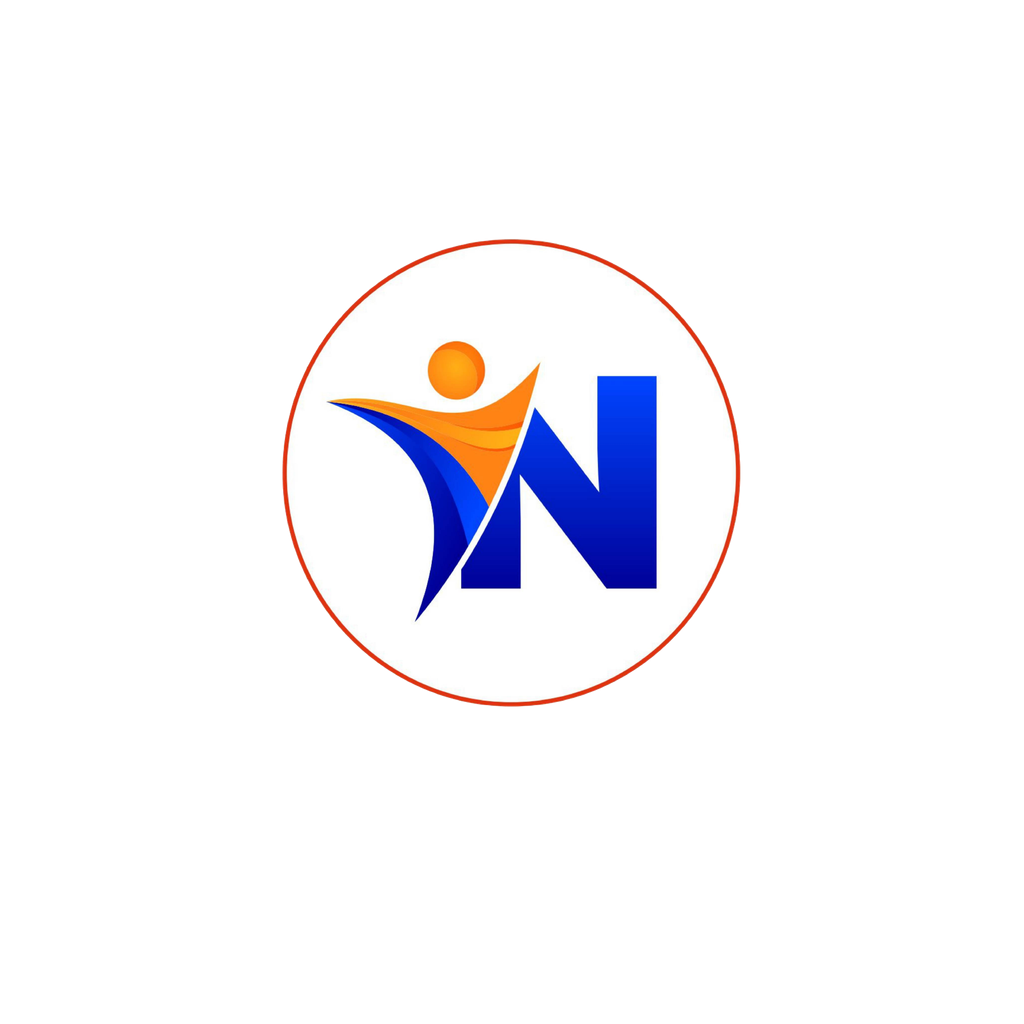
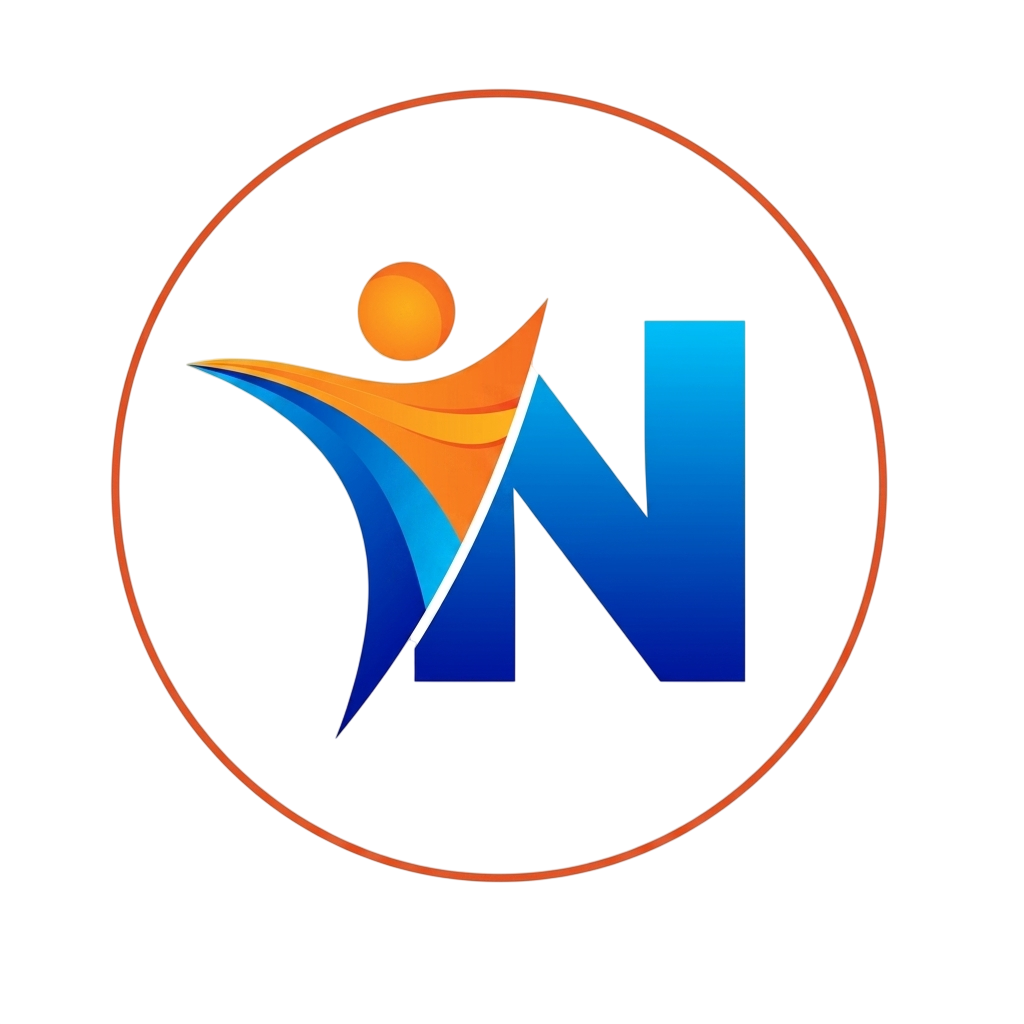
updated

diff --git a/nilanshu-billing-app/index.html b/nilanshu-billing-app/index.html
@@ -4,10 +4,24 @@
     <meta charset="UTF-8" />
     <link rel="icon" type="image/svg+xml" href="/favicon.svg" />
     <meta name="viewport" content="width=device-width, initial-scale=1.0" />
-    <title>nilanshu-billing-app</title>
+    <title>NP-Billing</title>
+    <style>
+      body { margin: 0; background-color: #f8fafc; font-family: system-ui, -apple-system, sans-serif; }
+      @media (prefers-color-scheme: dark) { body { background-color: #020817; color: #fff; } }
+      #initial-loader { display: flex; flex-direction: column; align-items: center; justify-content: center; height: 100vh; width: 100vw; position: absolute; top: 0; left: 0; }
+      .spinner { width: 40px; height: 40px; border: 4px solid rgba(0, 0, 0, 0.1); border-left-color: #3b82f6; border-radius: 50%; animation: spin 1s linear infinite; }
+      @media (prefers-color-scheme: dark) { .spinner { border: 4px solid rgba(255, 255, 255, 0.1); border-left-color: #3b82f6; } }
+      @keyframes spin { 0% { transform: rotate(0deg); } 100% { transform: rotate(360deg); } }
+      .loading-text { margin-top: 1rem; font-size: 14px; color: #64748b; font-weight: 500; }
+    </style>
   </head>
   <body>
-    <div id="root"></div>
+    <div id="root">
+      <div id="initial-loader">
+        <div class="spinner"></div>
+        <div class="loading-text">Loading NP-Billing...</div>
+      </div>
+    </div>
     <script type="module" src="/src/main.tsx"></script>
   </body>
 </html>

diff --git a/nilanshu-billing-app/src/pages/Dashboard.tsx b/nilanshu-billing-app/src/pages/Dashboard.tsx
@@ -10,7 +10,12 @@ export default function Dashboard() {
   const totalOutstanding = parties.reduce((sum, p) => sum + p.outstandingBalance, 0);
   const todayBills = bills.filter(b => {
     const today = new Date();
-    const bd = new Date(b.date);
+    let dateStr = String(b.date);
+    // Convert PostgreSQL "2026-08-04 20:20:00" to ISO UTC "2026-08-04T20:20:00Z"
+    if (dateStr.includes(' ') && !dateStr.includes('T')) {
+      dateStr = dateStr.replace(' ', 'T') + 'Z';
+    }
+    const bd = new Date(dateStr);
     return bd.toDateString() === today.toDateString();
   });
   const todaySales = todayBills.reduce((sum, b) => sum + Number(b.total || 0), 0);
@@ -28,7 +33,11 @@ export default function Dashboard() {
     const y = d.getFullYear();
     
     const monthlyBills = bills.filter(b => {
-      const bd = new Date(b.date);
+      let dateStr = String(b.date);
+      if (dateStr.includes(' ') && !dateStr.includes('T')) {
+        dateStr = dateStr.replace(' ', 'T') + 'Z';
+      }
+      const bd = new Date(dateStr);
       return bd.getMonth() === m && bd.getFullYear() === y;
     });
     

diff --git a/nilanshu-billing-app/src/components/ui/Layout.tsx b/nilanshu-billing-app/src/components/ui/Layout.tsx
@@ -24,8 +24,9 @@ export const Layout = () => {
     <div className="flex h-screen bg-background text-foreground overflow-hidden">
       {/* Sidebar */}
       <aside className="w-64 bg-card border-r border-border flex flex-col no-print">
-        <div className="p-6">
-          <h1 className="text-xl font-bold tracking-tight text-primary">Nilanshu Billing</h1>
+        <div className="p-6 flex items-center gap-3">
+          <img src="/logo.png" alt="Logo" className="w-8 h-8 object-contain rounded-full bg-white p-0.5" />
+          <h1 className="text-xl font-bold tracking-tight text-primary">NP-Billing</h1>
         </div>
         
         <nav className="flex-1 px-4 space-y-2 overflow-y-auto">
